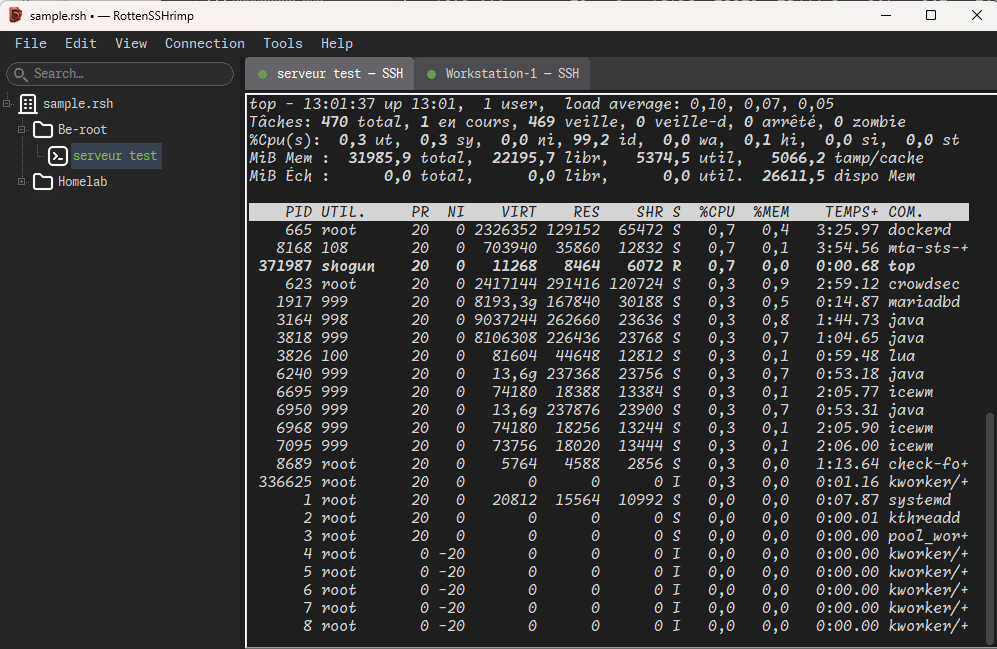
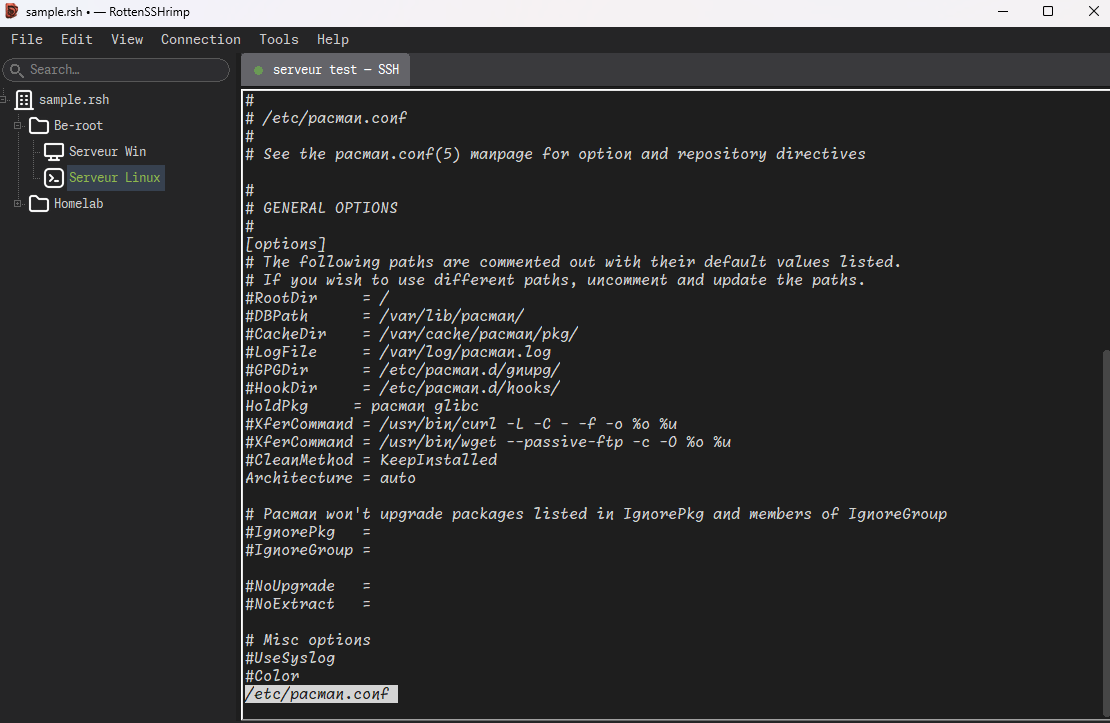
add screenshots

Changed region(s): [[0.0, 0.0, 1.0, 1.0]]

diff --git a/README.md b/README.md
@@ -8,6 +8,8 @@ to attend its own funeral. Runs on Windows, Linux and macOS.
 
 ![The host tree on the left, an SSH session running top on the right](resources/screenshot.png)
 
+![The host tree on the left, an RDP session running top on the right](resources/screenshot2.png)
+
 One tree of machines, one tab per session, one encrypted file behind it all.
 The load average in that screenshot is 0.12, which is the only time anybody
 takes a screenshot.
